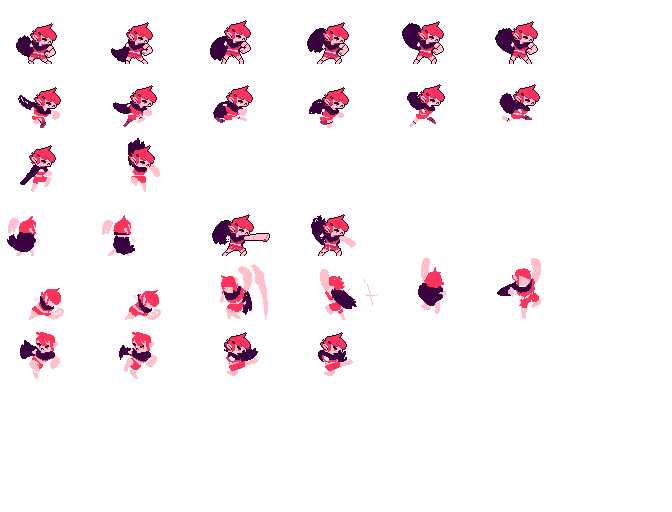
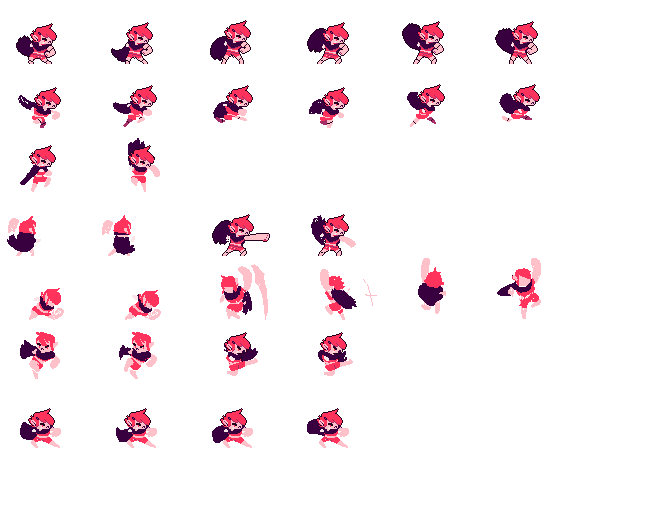
slide

diff --git a/player.js b/player.js
@@ -103,6 +103,24 @@ function Player() {
             ],
             isAirState: true,
             moveable: false,
+        },
+        slide: {
+            frames: [
+                { duration: 3, frame: 42 },
+                { duration: 3, frame: 43 },
+                { duration: 6, frame: 44 },
+                { duration: 6, frame: 45 },
+                { duration: 6, frame: 5, after: 'idle' },
+            ],
+            enter: function(self) {
+                self.friction = 0;
+                self.vel.x = self.dir * self.max_speed;
+                self.push.x = self.dir * 1;
+            },
+            exit: function(self) {
+                self.friction = 0.05;
+            },
+            moveable: false,
         }
     }
 
@@ -134,6 +152,9 @@ Player.prototype.knockBack = function(obj) {
     if (state == 'punch') {
         knockBack = 2 + 3 * this.power;
         obj.push.x = this.dir * knockBack;
+    } else if (state == 'slide') {
+        knockBack = 1.5 + 2.5 * this.power;
+        obj.push.x = this.dir * knockBack * 1.5;
     } else if (state == 'upper_cut') {
         knockBack = 3 + 3 * this.power;
         obj.push.y = -knockBack * 1.8;
@@ -155,7 +176,7 @@ Player.prototype.knockBack = function(obj) {
     obj.vel.x = 0;
     obj.vel.y = 0;
 
-    SHAKE = knockBack / 1;
+    SHAKE = knockBack / 1.2 + 0.5;
 }
 
 Player.prototype.hitGround = function() {
@@ -209,6 +230,11 @@ Player.prototype.standardInput = function() {
             if (Key.pressed(Key.P)) {
                 if (Key.isDown(Key.UP)) {
                     this.behavior.changeState('upper_cut');
+                    this.reducePower(0.22);
+                    this.haveBeenHit = {};
+                    uppercut.play();
+                } else if (Key.isDown(Key.DOWN)) {
+                    this.behavior.changeState('slide');
                     this.reducePower(0.22);
                     this.haveBeenHit = {};
                     uppercut.play();

diff --git a/main.js b/main.js
@@ -58,15 +58,16 @@ function collision() {
 }
 
 function pad(num, size) {
-    var s = num+"";
+    var s = Math.abs(num)+"";
     while (s.length < size) s = "0" + s;
+    if (num < 0) s = "-" + s;
     return s;
 }
 
 var tick_count = 0;
 function animate() {
     if (tick_count++ % 160 == 0) {
-      entities.push(new Police());
+      entities.push(new Puncher());
     }
 
     for (var i = entities.length - 1; i >= 0; i--) {
@@ -155,7 +156,7 @@ function loadLevel() {
 
         scoreAmount = 0;
         score = new PIXI.extras.BitmapText('000000', { font: '16px KenPixel Mini', align: 'right' });
-        score.position.x = logicalWidth - 50;
+        score.position.x = logicalWidth - 55;
         uiContainer.addChild(score);
 
     //     heart = new PIXI.Sprite(new PIXI.Texture(resources['ui'].texture, new PIXI.Rectangle(0, 64, 48, 32)));

diff --git a/puncher.js b/puncher.js
@@ -201,7 +201,7 @@ Puncher.prototype.update = function() {
 
             if (this.hp <= 0) {
                 scoreAmount -= 300;
-                scoreAmount = Math.max(0, scoreAmount);
+                entities.push(new Police());
             } else {
                 scoreAmount += 150;
             }
